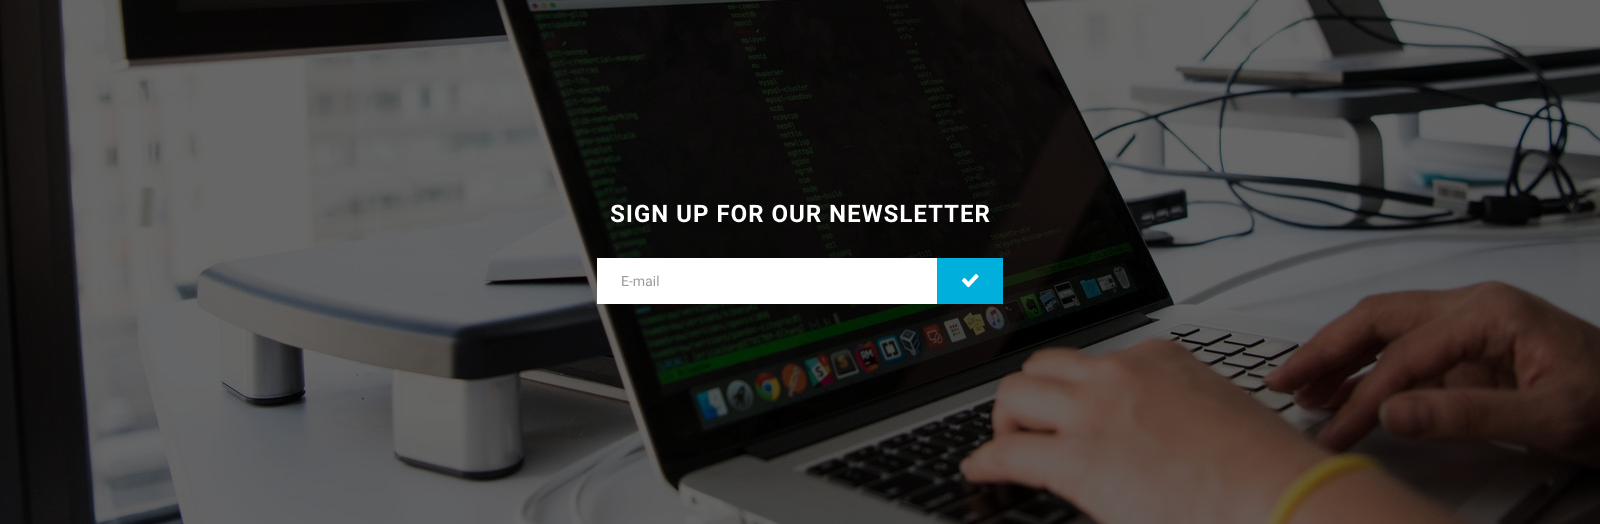
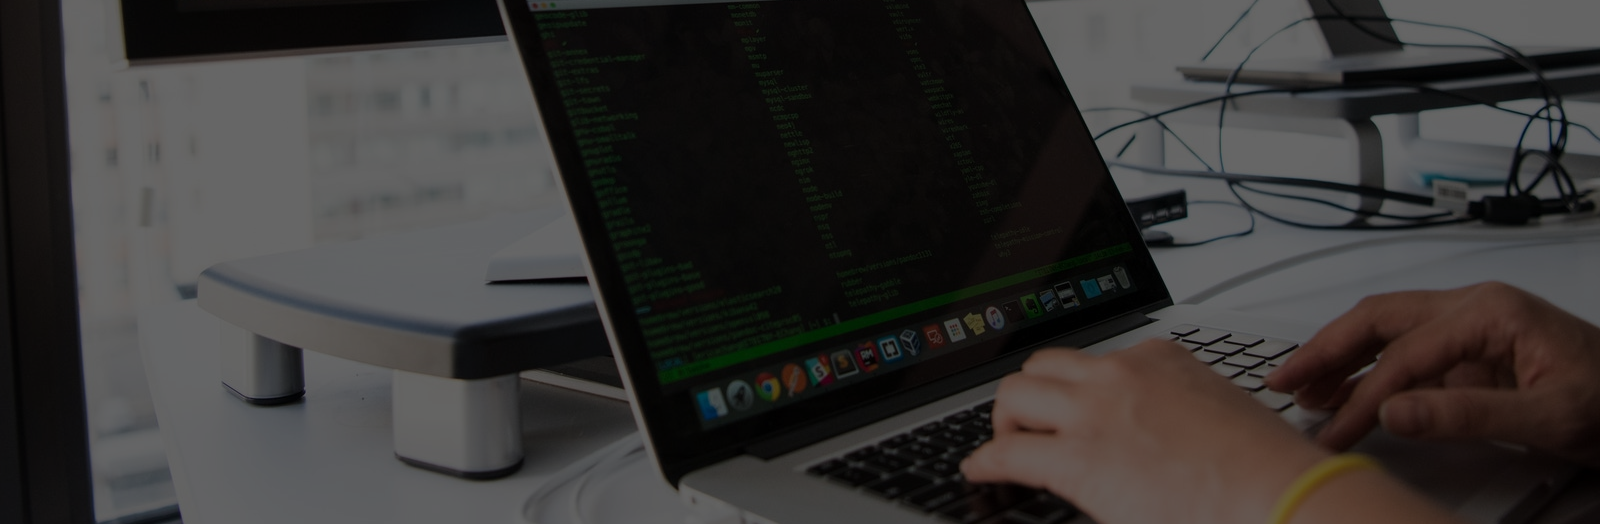
feat: add sign up section

Changed region(s): [[0.375, 0.4885, 0.625, 0.5802], [0.375, 0.3664, 0.625, 0.4275]]

diff --git a/webdev/style.css b/webdev/style.css
@@ -345,3 +345,88 @@
     .implement-article-text .section-header-description {
         margin-bottom: 31px;
     }
+    
+    .signup-section {
+        width: 1600px;
+        height: 524px;
+        background-image: url("assets/sign-up-background.png");
+        display: flex;
+        justify-content: center;
+        /* align-items: center; */
+    }
+    
+    .signup-form {
+        width: 406px;
+        height: 107px;
+        margin-top: 199px;
+        /* background-color: red; */
+    }
+    
+    .form-header {
+        font-family: Roboto;
+        font-style: normal;
+        font-weight: bold;
+        font-size: 24px;
+        line-height: 28px;
+        text-align: center;
+        letter-spacing: 1px;
+        text-transform: uppercase;
+        color: #FFFFFF;
+        margin: 0;
+        margin-bottom: 30px;
+    }
+    
+    .input-wrapper {
+        display: flex;
+        width: 406px;
+    }
+    
+    #form-email-input {
+        height: 42px;
+        width: 313px;
+        outline: none;
+        padding-left: 22px;
+    }
+    
+    #form-email-input::placeholder {
+        /* padding-left: 20px; */
+        font-family: Roboto;
+        font-style: normal;
+        font-weight: normal;
+        font-size: 14px;
+        line-height: 140%;
+        color: #373737;
+        opacity: .5;
+    }
+    
+    .email-button {
+        width: 66px;
+        height: 47.1px;
+        background: #00AFDB;
+        border: none;
+        margin-top: 0.2px;
+        margin-left: -1px;
+        position: relative;
+    }
+    
+    .email-button:focus,
+    .email-button:active {
+        outline: none;
+    }
+    
+    .email-button:hover {
+        background-color: #009CC2;
+    }
+    
+    .btn-img {
+        display: block;
+        position: absolute;
+        top: 18px;
+        left: 26px;
+        width: 14.66px;
+        height: 8.66px;
+        border-top: 4px solid #ffffff;
+        border-right: 4px solid #ffffff;
+        box-sizing: border-box;
+        transform: rotate(133deg);
+    }

diff --git a/webdev/index.html b/webdev/index.html
@@ -127,6 +127,27 @@
         </section>
 
 
+        <section class="signup-section">
+
+            <h2 class="vis-hidden">webdev</h2>
+
+            <form action="#" class="signup-form">
+
+                <h2 class="form-header">sign up for our newsletter</h2>
+
+
+                <div class="input-wrapper">
+                    <input type="email" name="email" id="form-email-input" placeholder="E-mail" required>
+                    <button class="email-button"><span class="btn-img">
+                    </span></button>
+                </div>
+
+            </form>
+
+        </section>
+
+
+
     </main>
 
 </body>
